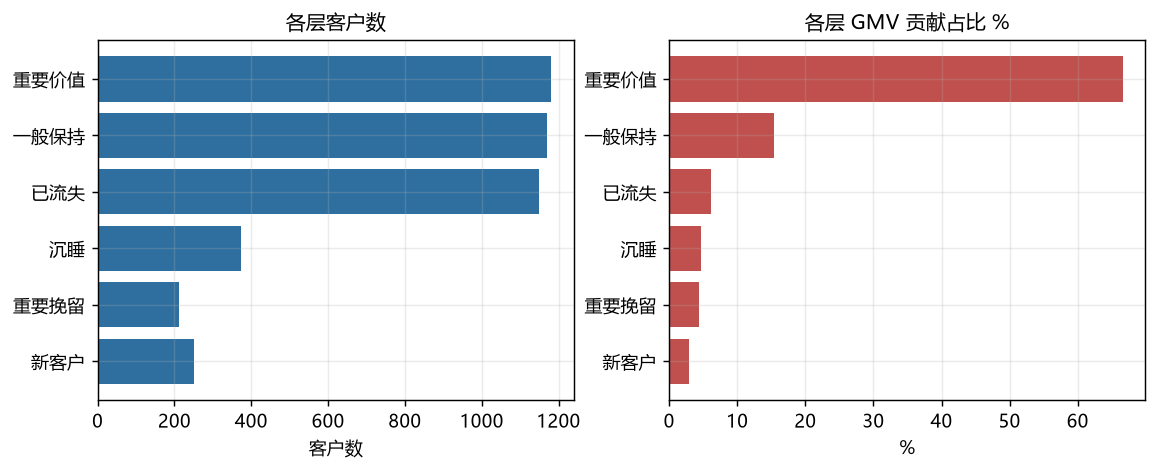
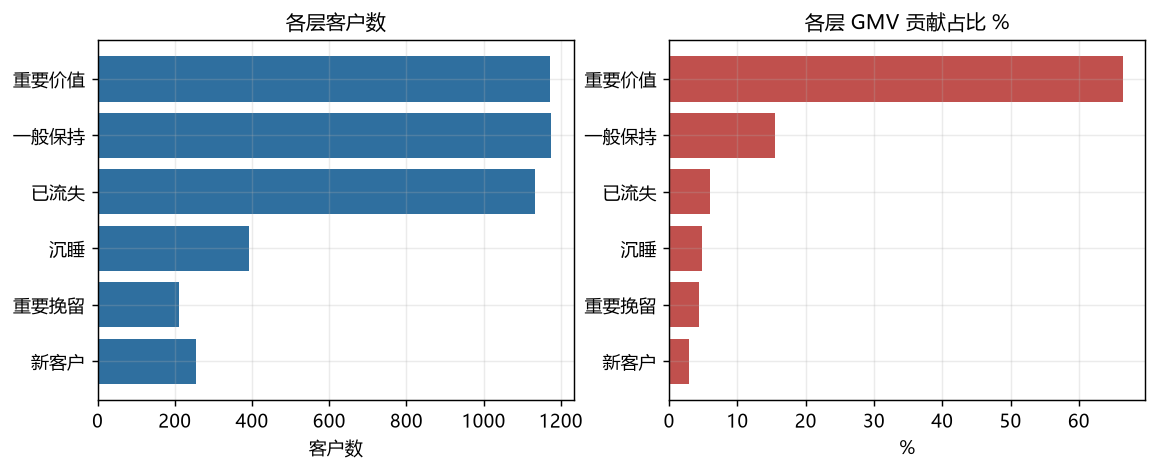
增加仓库首页 README

diff --git a/README.md b/README.md
@@ -1,0 +1,141 @@
+# 数据项目集 · 黄鑫
+
+三个可以独立运行的数据项目：离线数仓、用户留存分析、出租车行程分析。
+每个项目都有可执行代码、SQL、自动生成的结论文档，以及一份学习指南。
+
+| 项目 | 内容 | 技术栈 |
+| --- | --- | --- |
+| [A-offline-warehouse](A-offline-warehouse/) | 电商交易数据四层数仓建模 | DuckDB SQL / 分层建模 |
+| [B-retention-analysis](B-retention-analysis/) | Cohort 留存矩阵、RFM、流失预警 | SQL 窗口函数 |
+| [C-taxi-sql](C-taxi-sql/) | 950 万行纽约出租车行程分析 | DuckDB + matplotlib |
+
+下面是从零开始的学习路线。
+
+---
+# 从这里开始：三个项目怎么学
+
+你手上有三个能跑的项目。这份文档告诉你：**先学哪个、每天做什么、学到什么程度算学会**。
+
+---
+
+## 一、三个项目是什么关系
+
+| | 项目 | 一句话 | 难度 | 现在状态 |
+|---|---|---|---|---|
+| **C** | 纽约出租车分析 | 950 万行真实数据，先体检再分析 | ★☆☆ | ✅ 已跑通 |
+| **B** | 用户留存与复购 | 纯 SQL，把「留存」定义成一个口径 | ★★☆ | ✅ 已跑通 |
+| **A** | 离线数仓分层 | 四层建模，让每个指标有出处 | ★★★ | ✅ 已跑通 |
+
+**它们不是三选一，是三个台阶。**
+
+- **C 教你「怎么面对一份脏数据」** —— 这是所有数据工作的第一步，也是最容易被忽略的一步。
+- **B 教你「怎么定义一个指标」** —— 从写 SQL 到做分析，分水岭就在这里。
+- **A 教你「怎么组织一堆指标」** —— 从做分析到做系统，分水岭在这里。
+
+---
+
+## 二、学习顺序：C → B → A
+
+不要按 A→B→C 学。难的在前面会让你卡住，然后放弃。
+
+### 第 1 天：跑通 C，理解「数据质量」
+
+动作：
+
+1. `cd C-taxi-sql && python src/run.py`
+2. 打开 `reports/metrics.json`，找到 `bad_distance`、`clean_ratio`
+3. 打开 `reports/figs/fig01_demand_heatmap.png`，找出颜色最深的三格
+
+**要理解的一件事**：为什么第一步是数脏数据，而不是直接算平均值。
+
+想明白这个，你就比大多数应届生懂数据工作了。
+
+### 第 2 天：读 C 的 SQL，改一个条件
+
+打开 `sql/02_analysis.sql`，把 `BETWEEN 60 AND 4 * 3600` 改成 `BETWEEN 60 AND 2 * 3600`，重跑，看平均里程怎么变。
+
+**要理解的一件事**：每个过滤条件都在改变结论，所以要能给理由。
+
+### 第 3 天：跑通 B，理解「留存」
+
+1. `cd B-retention-analysis && python src/run.py`
+2. 打开 `reports/figs/fig01_cohort_heatmap.png`
+3. 打开 `reports/cohort_retention.csv`，看 M1 列
+
+**要理解的一件事**：M0 为什么是 100%？为什么不能拿它汇报？
+
+### 第 4 天：读 B 的窗口函数
+
+`sql/04_interval_churn.sql` 里的 `LAG`，`sql/03_rfm.sql` 里的 `NTILE`。
+
+把这两句抄到纸上，默写一遍。**这是 SQL 面试最高频的两个函数。**
+
+### 第 5–6 天：跑通 A，理解「分层」
+
+1. `cd A-offline-warehouse && python src/run.py`
+2. 按顺序读 `sql/02_dwd.sql` → `03_dws.sql` → `04_ads.sql`
+3. 做那个实验：删掉 `AND customer_id_raw IS NOT NULL`，重跑，看客户数怎么变
+
+**要理解的一件事**：为什么清洗必须集中在一层？
+
+### 第 7 天：串起来讲一遍
+
+对着空白文档，不看代码，写出：
+
+- C 发现了什么脏数据，怎么处理的
+- B 的留存怎么算的，M1 是多少
+- A 分了四层，每层干什么，为什么这么分
+
+**写不出来说明还没学会，回去补。** 这一步比跑十遍代码有用。
+
+---
+
+## 三、每个项目的文档怎么看
+
+每个项目文件夹里都有两份文档：
+
+| 文件 | 内容 | 怎么用 |
+|---|---|---|
+| `README.md` | 项目是什么、结果多少、怎么跑 | 给别人看的 |
+| `LEARNING.md` | 概念讲解 + 练习 + 自测题 + 面试追问 | **给你自己看的** |
+
+**先后顺序**：先跑通（README 的「运行」一节），再读 LEARNING。
+
+LEARNING 里的自测题不要跳。**能答对 8 题以上，这个项目才敢写进简历。**
+
+---
+
+## 四、学会的标准
+
+不是「跑通了」，是这三条：
+
+1. **能画出数据流** —— 从原始表到最终指标，经过哪几张表、每张表一行代表什么
+2. **能解释每个 where 条件** —— 为什么剔这条、不剔会怎样
+3. **能回答「如果数据量翻 100 倍怎么办」** —— 这是区分"会写 SQL"和"懂数据工程"的分水岭
+
+---
+
+## 五、简历上放哪个
+
+一页简历最多放 2 个。建议：
+
+- **投数据分析 / 运营**：放 **B（留存）** + **C（出租车）**
+  - B 证明你懂指标口径，C 证明你能独立面对脏数据
+- **投数据开发 / 数仓**：放 **A（数仓）** + **B（留存）**
+  - A 是主力，B 证明你不仅会建表，还会用
+
+**C 的定位比较特殊**：它最容易讲，但技术深度最浅。如果面试时间短，拿它开场最安全。
+
+---
+
+## 六、时间不够怎么办
+
+如果只有一个周末（两天）：
+
+- 第 1 天上午：跑通 C，读 `01_quality.sql`
+- 第 1 天下午：跑通 B，看懂留存矩阵那张图
+- 第 2 天：背 LEARNING 里的自测题答案，串讲一遍
+
+**A 可以暂时只做到"能跑通 + 能说清四层是哪四层"**，剩下的等面试问到再补。
+
+

diff --git a/B-retention-analysis/reports/findings.md b/B-retention-analysis/reports/findings.md
@@ -14,12 +14,12 @@
 
 | 分层 | 客户数 | 人数占比 | GMV | GMV 占比 |
 | --- | --- | --- | --- | --- |
-| 重要价值 | 1,181 | 27.2% | 5,936,836 | 66.6% |
-| 一般保持 | 1,169 | 27.0% | 1,370,450 | 15.4% |
-| 已流失 | 1,150 | 26.5% | 542,347 | 6.1% |
-| 沉睡 | 374 | 8.6% | 417,660 | 4.7% |
+| 重要价值 | 1,172 | 27.0% | 5,919,503 | 66.4% |
+| 一般保持 | 1,175 | 27.1% | 1,385,158 | 15.5% |
+| 已流失 | 1,132 | 26.1% | 530,488 | 5.9% |
+| 沉睡 | 392 | 9.0% | 430,052 | 4.8% |
 | 重要挽留 | 212 | 4.9% | 389,667 | 4.4% |
-| 新客户 | 252 | 5.8% | 254,448 | 2.9% |
+| 新客户 | 255 | 5.9% | 256,540 | 2.9% |
 
 ## 3. 怎么读留存矩阵
 
